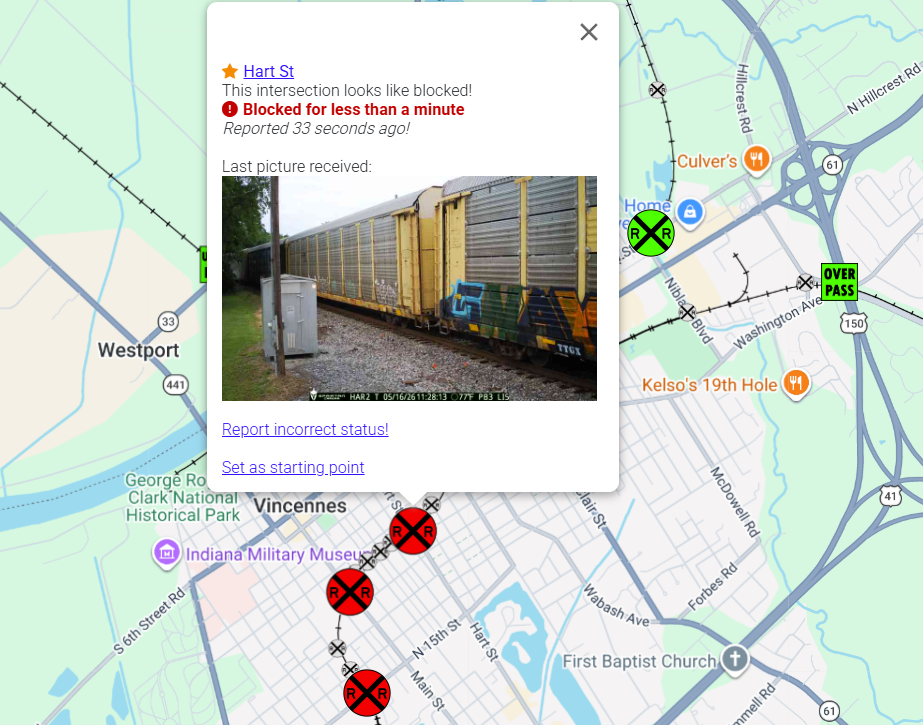
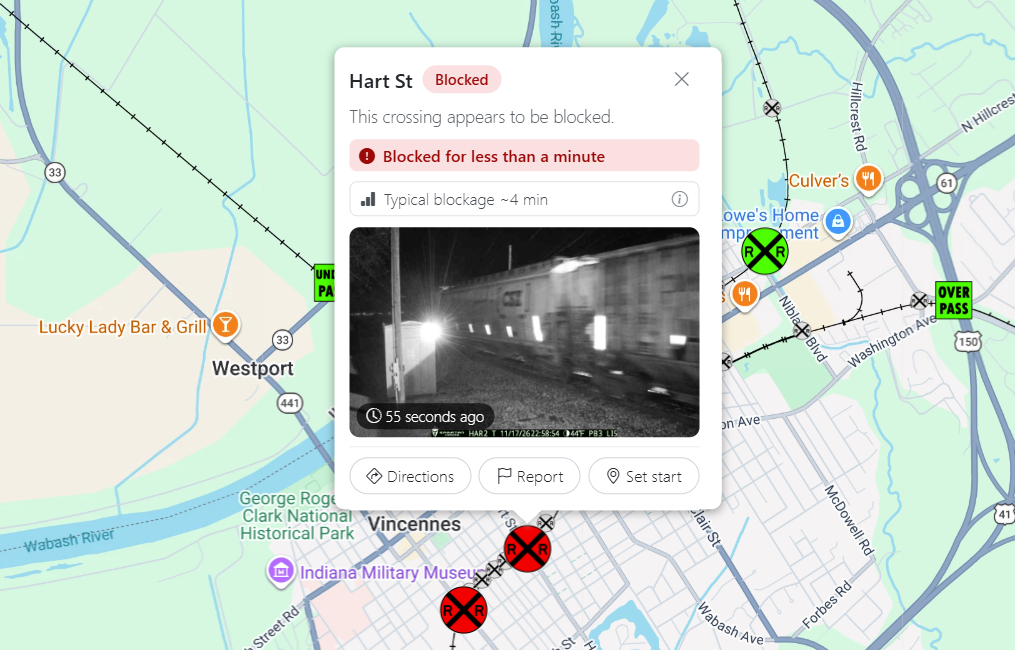
waze

diff --git a/index.html b/index.html
@@ -126,6 +126,10 @@
             <svg class="soon-dot" viewBox="0 0 10 10" aria-hidden="true"><circle class="track" cx="5" cy="5" r="4"/><circle class="arc" cx="5" cy="5" r="4" transform="rotate(-90 5 5)"/></svg>
             Coming soon to Plymouth, Michigan
           </div>
+          <div class="hero-badge">
+            <svg class="soon-dot" viewBox="0 0 10 10" aria-hidden="true"><circle class="track" cx="5" cy="5" r="4"/><circle class="arc" cx="5" cy="5" r="4" transform="rotate(-90 5 5)"/></svg>
+            Coming soon to Lockland, Ohio
+          </div>
           <a href="#contact" class="hero-badge hero-badge-next">
             <svg class="next-dot" viewBox="0 0 10 10" aria-hidden="true"><circle cx="5" cy="5" r="4.25"/></svg>
             Your city next?
@@ -348,7 +352,7 @@
       <p class="eyebrow fade-up" style="margin-top: 32px;">Integration</p>
       <p class="fade-up" style="color: var(--text-secondary); margin-bottom: 24px;">Integrate data into anywhere you'd like</p>
       
-	  <div class="feature-grid">
+	  <div class="feature-grid feature-grid--3">
         <div class="feature-card fade-up">
           <div class="feature-card-img">
             <img src="images/arcgis.png" alt="InterFact ArcGIS integration for emergency responders" width="1026" height="718" loading="lazy">
@@ -365,6 +369,15 @@
           <div class="feature-card-body">
             <h3>Status Dashboard</h3>
             <p>Integrate live crossing status into any webpage or application for real-time visibility.</p>
+          </div>
+        </div>
+        <div class="feature-card fade-up">
+          <div class="feature-card-img">
+            <img src="images/waze.png" alt="InterFact crossing alerts in the Waze Partner Hub for the City of Plymouth, Michigan" width="651" height="430" loading="lazy">
+          </div>
+          <div class="feature-card-body">
+            <h3>Waze Integration</h3>
+            <p>Blocked crossings show up in Waze, so drivers route around a stopped train before they reach it.</p>
           </div>
         </div>
 	  </div>

diff --git a/style.css b/style.css
@@ -633,6 +633,9 @@ section.grid-bg {
   font-size: 0.9rem;
   line-height: 1.6;
 }
+/* Integrations: three cards in one row, with shorter image frames */
+.feature-grid.feature-grid--3 { grid-template-columns: repeat(3, 1fr); }
+.feature-grid--3 .feature-card-img { height: 250px; }
 .showcase {
   border-radius: var(--radius);
   overflow: hidden;
@@ -1112,6 +1115,7 @@ section.trust-band {
   .hero .container { padding-top: 40px; padding-bottom: 40px; }
   .hero-bg::after { display: none; }
   .feature-grid { grid-template-columns: 1fr; }
+  .feature-grid.feature-grid--3 { grid-template-columns: 1fr; }
   .steps {
     grid-template-columns: 1fr;
     gap: 48px;
@@ -1138,6 +1142,10 @@ section.trust-band {
   .pledge-grid { grid-template-columns: 1fr; grid-template-rows: none; }
   .pledge { display: block; padding: 28px 24px; }
   .oxie-wrap { --oxie-width: 44px; --oxie-tail: 13px; }
+  /* Slightly tighter hero on phones so the badge list clears Oxie's corner */
+  .hero-assurances { margin-bottom: 24px; }
+  .hero-actions { margin-bottom: 28px; }
+  .hero-badges { gap: 8px; }
   .oxie-bubble { left: 8px; }
   .track-divider { padding: 32px 0; }
   .track-divider-inner { height: 56px; }
